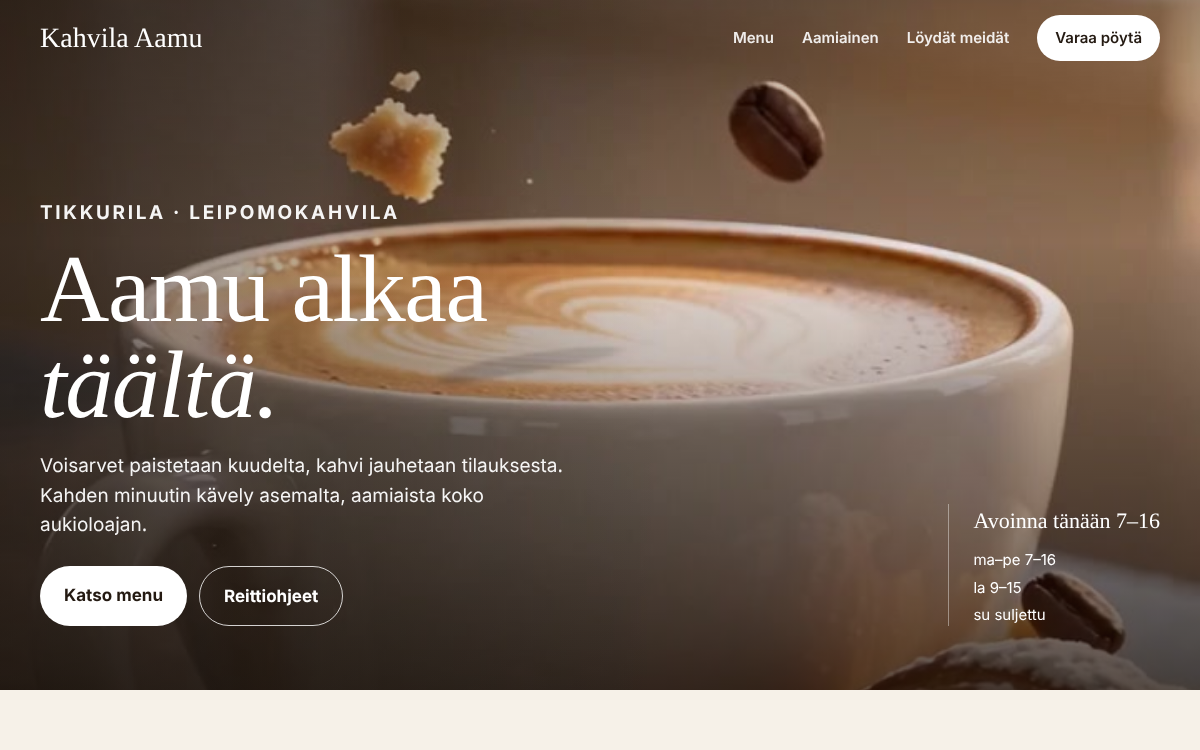
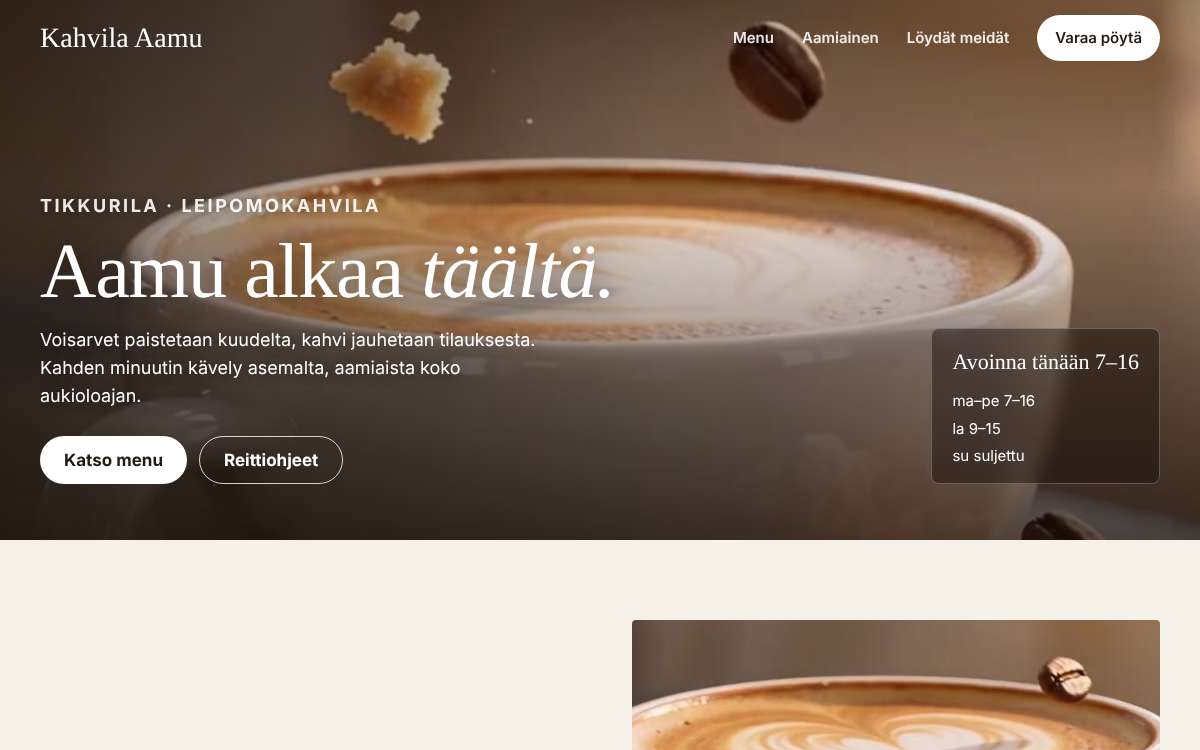
Hero collage: demo screenshot in the browser mock, smaller ad text; café demo: compact hero, readable text, focus/hover states
Claude-Session: https://claude.ai/code/session_013KbEkKeuAjt5iLSLovH75J

diff --git a/demo/kahvila-aamu.html b/demo/kahvila-aamu.html
@@ -17,25 +17,26 @@ img{display:block;max-width:100%}
 header{position:absolute;inset:0 0 auto;z-index:5;color:#fff}
 header .wrap{display:flex;justify-content:space-between;align-items:center;height:76px}
 .brand{font-family:Fraunces,Georgia,serif;font-size:28px;text-decoration:none;color:#fff;font-weight:500}
-nav{display:flex;gap:28px;align-items:center;font-weight:600;font-size:15px}nav a{color:#fff;text-decoration:none;opacity:.9}nav a:hover{opacity:1;text-decoration:underline;text-underline-offset:4px}
+nav{display:flex;gap:28px;align-items:center;font-weight:600;font-size:15px}nav a{color:#fff;text-decoration:none;opacity:.9;padding:12px 0;min-height:44px;display:inline-flex;align-items:center}nav a:hover{opacity:1;text-decoration:underline;text-underline-offset:4px}
 nav .b{background:#fff;color:var(--ink);padding:11px 18px;border-radius:999px;opacity:1}
-.hero{position:relative;min-height:92vh;display:grid;align-items:end;color:#fff;isolation:isolate}
+.hero{position:relative;min-height:min(72vh,640px);display:grid;align-items:end;color:#fff;isolation:isolate}
 .hero img{position:absolute;inset:0;width:100%;height:100%;object-fit:cover;object-position:50% 40%;z-index:-2}
 .hero::after{content:"";position:absolute;inset:0;z-index:-1;background:linear-gradient(90deg,rgba(20,12,6,.5) 0%,rgba(20,12,6,0) 55%),linear-gradient(180deg,rgba(20,12,6,.35) 0%,rgba(20,12,6,0) 35%,rgba(20,12,6,.7) 100%)}
-.hero .wrap{padding:0 0 64px;display:grid;grid-template-columns:1.3fr 1fr;gap:40px;align-items:end}
+.hero .wrap{padding:112px 0 56px;display:grid;grid-template-columns:1.3fr auto;gap:40px;align-items:end}
 .kick{font-size:13px;letter-spacing:.14em;text-transform:uppercase;font-weight:700;opacity:.9}
-.hero h1{font-size:clamp(56px,8vw,112px);margin:14px 0 18px}
+.hero h1{font-size:clamp(44px,6.5vw,88px);margin:12px 0 16px;text-shadow:0 2px 24px rgba(20,12,6,.35)}
 .hero h1 em{font-style:italic;font-weight:300}
-.hero p{font-size:19px;max-width:44ch;opacity:.95}
+.hero p{font-size:18px;max-width:44ch;text-shadow:0 1px 12px rgba(20,12,6,.5)}
 .hero .cta{display:flex;gap:12px;margin-top:26px;flex-wrap:wrap}
-.btn{display:inline-block;background:#fff;color:var(--ink);font-weight:700;padding:16px 24px;border-radius:999px;text-decoration:none;transition:transform .2s}
-.btn:hover{transform:translateY(-1px)} .btn.o{background:transparent;color:#fff;border:1.5px solid rgba(255,255,255,.8)}
-.hours{justify-self:end;border-left:1px solid rgba(255,255,255,.4);padding-left:24px;font-size:15px;display:grid;gap:4px}
+.btn{display:inline-flex;align-items:center;min-height:48px;background:#fff;color:var(--ink);font-weight:700;padding:0 24px;border-radius:999px;text-decoration:none;transition:transform .2s,background .2s}
+.btn:hover{transform:translateY(-1px);background:var(--paper)} .btn:active{transform:scale(.98)}
+:focus-visible{outline:3px solid #fff;outline-offset:3px;border-radius:8px} main :focus-visible{outline-color:var(--rust)} .btn.o{background:transparent;color:#fff;border:1.5px solid rgba(255,255,255,.8)}
+.hours{background:rgba(20,12,6,.45);backdrop-filter:blur(8px);border:1px solid rgba(255,255,255,.25);border-radius:8px;padding:16px 20px;font-size:15px;display:grid;gap:4px;min-width:200px}
 .hours b{font-family:Fraunces,Georgia,serif;font-weight:500;font-size:22px;margin-bottom:6px}
-section{padding:96px 0}
+section{padding:80px 0}
 .intro{display:grid;grid-template-columns:1fr 1fr;gap:64px;align-items:center}
 .intro h2{font-size:clamp(36px,4.5vw,56px);margin-bottom:20px}
-.intro p{color:var(--mut);font-size:18px;max-width:48ch}
+.intro p{color:var(--ink);font-size:18px;max-width:48ch;line-height:1.6}
 .intro img{border-radius:4px;aspect-ratio:1;object-fit:cover;width:100%}
 .menu{background:#fff;border-top:1px solid var(--line);border-bottom:1px solid var(--line)}
 .menu .head{display:flex;justify-content:space-between;align-items:baseline;margin-bottom:40px;gap:24px;flex-wrap:wrap}
@@ -44,20 +45,20 @@ section{padding:96px 0}
 .group h3{font-size:13px;letter-spacing:.14em;text-transform:uppercase;color:var(--rust);margin:24px 0 8px;font-weight:700}
 .row{display:grid;grid-template-columns:1fr auto;gap:16px;padding:14px 0;border-bottom:1px solid var(--line);align-items:baseline}
 .row b{font-family:Fraunces,Georgia,serif;font-weight:500;font-size:21px;display:block}
-.row small{display:block;color:var(--mut);font-size:15px;margin-top:2px}
+.row small{display:block;color:var(--mut);font-size:15px;margin-top:2px;line-height:1.4}
 .row span{font-weight:600;font-variant-numeric:tabular-nums}
 .lunch{display:grid;grid-template-columns:1fr 1fr;gap:64px;align-items:center}
 .lunch img{border-radius:4px;aspect-ratio:16/10;object-fit:cover;width:100%}
-.lunch h2{font-size:clamp(36px,4.5vw,56px);margin-bottom:16px}.lunch p{color:var(--mut);font-size:18px;max-width:46ch}
-.lunch ul{margin:20px 0 0 18px;color:var(--mut)}.lunch li{margin:4px 0}
+.lunch h2{font-size:clamp(36px,4.5vw,56px);margin-bottom:16px}.lunch p{color:var(--ink);font-size:18px;max-width:46ch;line-height:1.6}
+.lunch ul{margin:20px 0 0 18px;color:var(--ink)}.lunch li{margin:4px 0}
 .find{background:var(--paper-2)}
 .find .g{display:grid;grid-template-columns:1fr 1fr;gap:48px;align-items:start}
 .find h2{font-size:clamp(36px,4.5vw,56px);margin-bottom:24px}
-dl{display:grid;grid-template-columns:auto 1fr;gap:12px 28px;font-size:16px}dt{color:var(--mut)}dd a{color:var(--ink)}
+dl{display:grid;grid-template-columns:auto 1fr;gap:14px 28px;font-size:17px}dt{color:var(--mut)}dd a{color:var(--ink);text-underline-offset:3px}
 .map{background:#e8eee9;border-radius:4px;height:300px;overflow:hidden}.map svg{width:100%;height:100%}
 footer{padding:32px 0;color:var(--mut);font-size:14px;border-top:1px solid var(--line)}
 footer .wrap{display:flex;justify-content:space-between;flex-wrap:wrap;gap:10px}
-@media (max-width:820px){.hero .wrap{grid-template-columns:1fr;padding-bottom:40px}.hours{justify-self:start;border:0;padding:0}.intro,.cols,.lunch,.find .g{grid-template-columns:1fr}.intro img{order:-1}nav a:not(.b){display:none}section{padding:64px 0}}
+@media (max-width:820px){.hero{min-height:0}.hero .wrap{grid-template-columns:1fr;padding:100px 0 32px;gap:24px}.hours{justify-self:start}.hero h1{font-size:44px}.intro,.cols,.lunch,.find .g{grid-template-columns:1fr}.intro img{order:-1}nav a:not(.b){display:none}section{padding:64px 0}}
 @media (prefers-reduced-motion:reduce){.btn{transition:none}}
 </style>
 </head>

diff --git a/index.html b/index.html
@@ -24,7 +24,7 @@
 .browser{position:absolute;left:0;top:30px;width:min(520px,92%);background:#f7f3ec;border-radius:var(--r2);overflow:hidden;box-shadow:var(--shadow);color:#2a1e14}
 .bar{height:34px;background:#e8e2d8;display:flex;align-items:center;gap:6px;padding:0 12px}.bar i{width:9px;height:9px;border-radius:50%;background:#c9c0b2}
 .bar span{margin-left:12px;font-family:"JetBrains Mono",monospace;font-size:11px;color:#8a7f70;background:#f7f3ec;padding:3px 10px;border-radius:6px}
-.site{display:grid;grid-template-columns:1fr 1fr;height:300px}
+.site{display:block;width:100%;height:300px;object-fit:cover;object-position:top}
 .site .t{padding:30px 26px}.site .t small{font-family:"JetBrains Mono",monospace;font-size:10px;letter-spacing:.1em;color:#a0522d}
 .site .t .mh{font-family:Georgia,"Times New Roman",serif;font-weight:400;font-size:40px;line-height:1;letter-spacing:-.01em;margin:10px 0 12px}
 .site .t p{font-size:12px;line-height:1.5;color:#6b5e50}.site .t b{display:inline-block;margin-top:16px;background:#2a1e14;color:#f7f3ec;font-size:12px;padding:9px 14px;border-radius:999px}
@@ -32,7 +32,7 @@
 .phone{position:absolute;right:20px;top:0;width:220px;height:450px;border-radius:34px;background:#000;padding:9px;box-shadow:var(--shadow);transform:rotate(4deg)}
 .reel{height:100%;border-radius:26px;overflow:hidden;position:relative;background:linear-gradient(170deg,#3b3bf2 0%,#141a70 55%,#0a0e2e 100%)}
 .reelvid{position:absolute;inset:0;width:100%;height:100%;object-fit:cover}
-.reel .big{text-shadow:0 2px 12px rgba(0,0,0,.5);position:absolute;left:18px;top:120px;font-weight:900;font-size:44px;line-height:.95;letter-spacing:-.04em;color:#fff}.reel .big em{font-style:normal;color:var(--lichen)}
+.reel .big{text-shadow:0 2px 12px rgba(0,0,0,.5);position:absolute;left:16px;top:110px;font-weight:900;font-size:30px;line-height:.95;letter-spacing:-.04em;color:#fff}.reel .big em{font-style:normal;color:var(--lichen)}
 .reel .play{position:absolute;left:50%;top:58%;width:54px;height:54px;border-radius:50%;background:rgba(255,255,255,.2);transform:translate(-50%,-50%);display:grid;place-items:center}
 .reel .play::after{content:"";border-left:16px solid #fff;border-top:10px solid transparent;border-bottom:10px solid transparent;margin-left:4px}
 .reel .who{position:absolute;left:14px;bottom:30px;font-size:12px;font-weight:700;display:flex;gap:8px;align-items:center;color:#fff}.reel .who i{width:24px;height:24px;border-radius:50%;background:var(--lichen)}
@@ -104,7 +104,7 @@
   </div>
   <div class="stage rise d2" aria-label="Esimerkki: kahvilan kotisivu, Instagram-videomainos ja Google-karttalistaus" role="img"><div class="stage-in">
     <div class="browser"><div class="bar"><i></i><i></i><i></i><span>kahvila-aamu.fi</span></div>
-      <div class="site"><div class="t"><small>TIKKURILA · AVOINNA 7–16</small><div class="mh">Aamun paras hetki.</div><p>Tuoretta leipää, hyvää kahvia ja lounas arkisin.</p><b>Katso menu</b></div><div class="pic"></div></div></div>
+      <img class="site" src="demo/kahvila-aamu.png" alt="" width="1200" height="750"></div>
     <div class="phone"><div class="reel"><video class="reelvid" src="assets/kahvila-aamu.mp4" poster="assets/kahvila-aamu-poster.jpg" autoplay muted loop playsinline preload="metadata" aria-label="Esimerkki: 3D-tuotevideo kahvilan Instagram-mainokseen"></video><div class="big">AAMIAINEN<br><em>7–11</em></div><div class="play"></div><div class="side-ic"><i></i><i></i><i></i></div><div class="who"><i></i>kahvila.aamu</div><div class="prog"></div></div></div>
     <div class="maps"><svg width="310" height="110" viewBox="0 0 310 110" aria-hidden="true"><rect width="310" height="110" fill="#e8eee9"/><path d="M0 70 C80 60 120 90 310 50" stroke="#fff" stroke-width="10" fill="none"/><path d="M90 0 L130 110 M220 0 L200 110" stroke="#fff" stroke-width="7"/><rect x="230" y="70" width="70" height="40" rx="8" fill="#cfe0a6"/><path d="M0 20 h60" stroke="#fff" stroke-width="5"/><g transform="translate(160 40)"><path d="M0 -26c-9 0-16 7-16 16 0 12 16 26 16 26s16-14 16-26c0-9-7-16-16-16z" fill="#3b3bf2"/><circle cy="-10" r="6" fill="#fff"/></g></svg>
       <div class="info"><b>Kahvila Aamu</b><div class="st"><span>★★★★★</span> · Kahvila · Avoinna</div></div></div>

diff --git a/tyot.html b/tyot.html
@@ -19,7 +19,7 @@
 .rep2 .ok{color:#1f6b3a;font-weight:700} .rep2 .no{color:#9a4a1a;font-weight:700}
 .vidwrap{position:relative;max-width:260px;aspect-ratio:9/16;margin-top:var(--s3);border-radius:var(--r2);overflow:hidden;background:#000}
 .vid{width:100%;height:100%;object-fit:cover;display:block}
-.vidtxt{position:absolute;left:18px;top:24px;font-weight:900;font-size:36px;line-height:.95;letter-spacing:-.04em;color:#fff;text-shadow:0 2px 12px rgba(0,0,0,.5)} .vidtxt em{font-style:normal;color:var(--lichen)}
+.vidtxt{position:absolute;left:18px;top:24px;font-weight:900;font-size:32px;line-height:.95;letter-spacing:-.04em;color:#fff;text-shadow:0 2px 12px rgba(0,0,0,.5)} .vidtxt em{font-style:normal;color:var(--lichen)}
 .ph1{padding:var(--s6) 0 var(--s5)} .ph1 h1{margin:var(--s3) 0 var(--s4)}
 
 </style>
